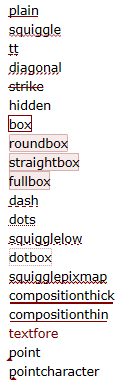
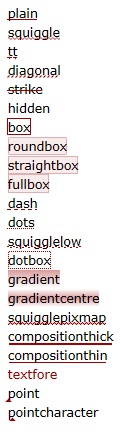
Update from Scintilla adding new indicators gradient and gradientcentre.

Changed region(s): [[0.0496, 0.0, 0.9421, 0.9871]]

diff --git a/doc/SciTEDoc.html b/doc/SciTEDoc.html
@@ -4523,7 +4523,7 @@ groupundo - yes or no
       <td>style</td>
       <td>one of plain, squiggle, tt, diagonal, strike, hidden, box, roundbox, straightbox, fullbox, dash,
       dots, squigglelow, dotbox, squigglepixmap, compositionthick, compositionthin,
-      textfore, point, or pointcharacter.<br />
+      textfore, gradient, gradientcentre, point, or pointcharacter.<br />
       </td>
       <td>plain</td>
      </tr>
